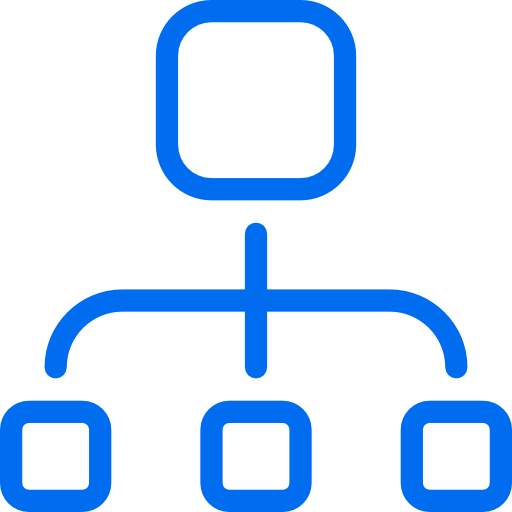
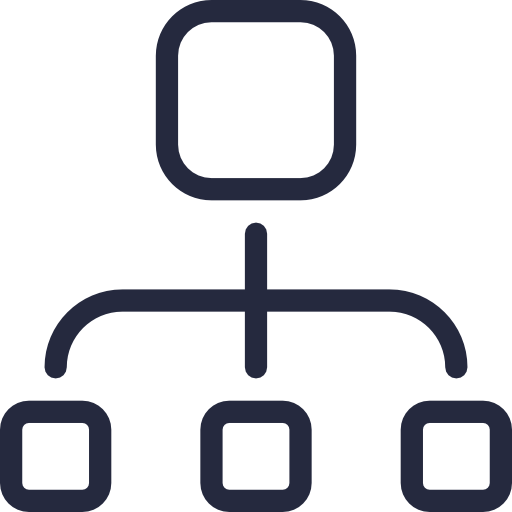
Primary color changed

diff --git a/css/main.css b/css/main.css
@@ -1,4 +1,4 @@
-body{
+1body{
 	font-family: 'Lato', sans-serif;
 
 }
@@ -18,7 +18,7 @@ a:hover{
 	width: 100%;
 	min-height: 400px;
 	height: 60vh;
-	background: linear-gradient(rgba(0,0,0,0.71), rgba(0,0,0,0.71)), url("/assets/background.jpg") repeat;
+	background: linear-gradient(rgba(0,0,0,0), rgba(0,0,0,0)), url("/assets/background.jpg") repeat;
 	-webkit-background-size: cover;
 	-moz-background-size: cover;
 	background-size: cover;
@@ -108,7 +108,7 @@ a:hover{
 }
 .ribbon{
 	padding: 30px 0px;
-	background-color: #1371ED;
+	background-color: #25292e;
 
 }
 .ribbon-text{
